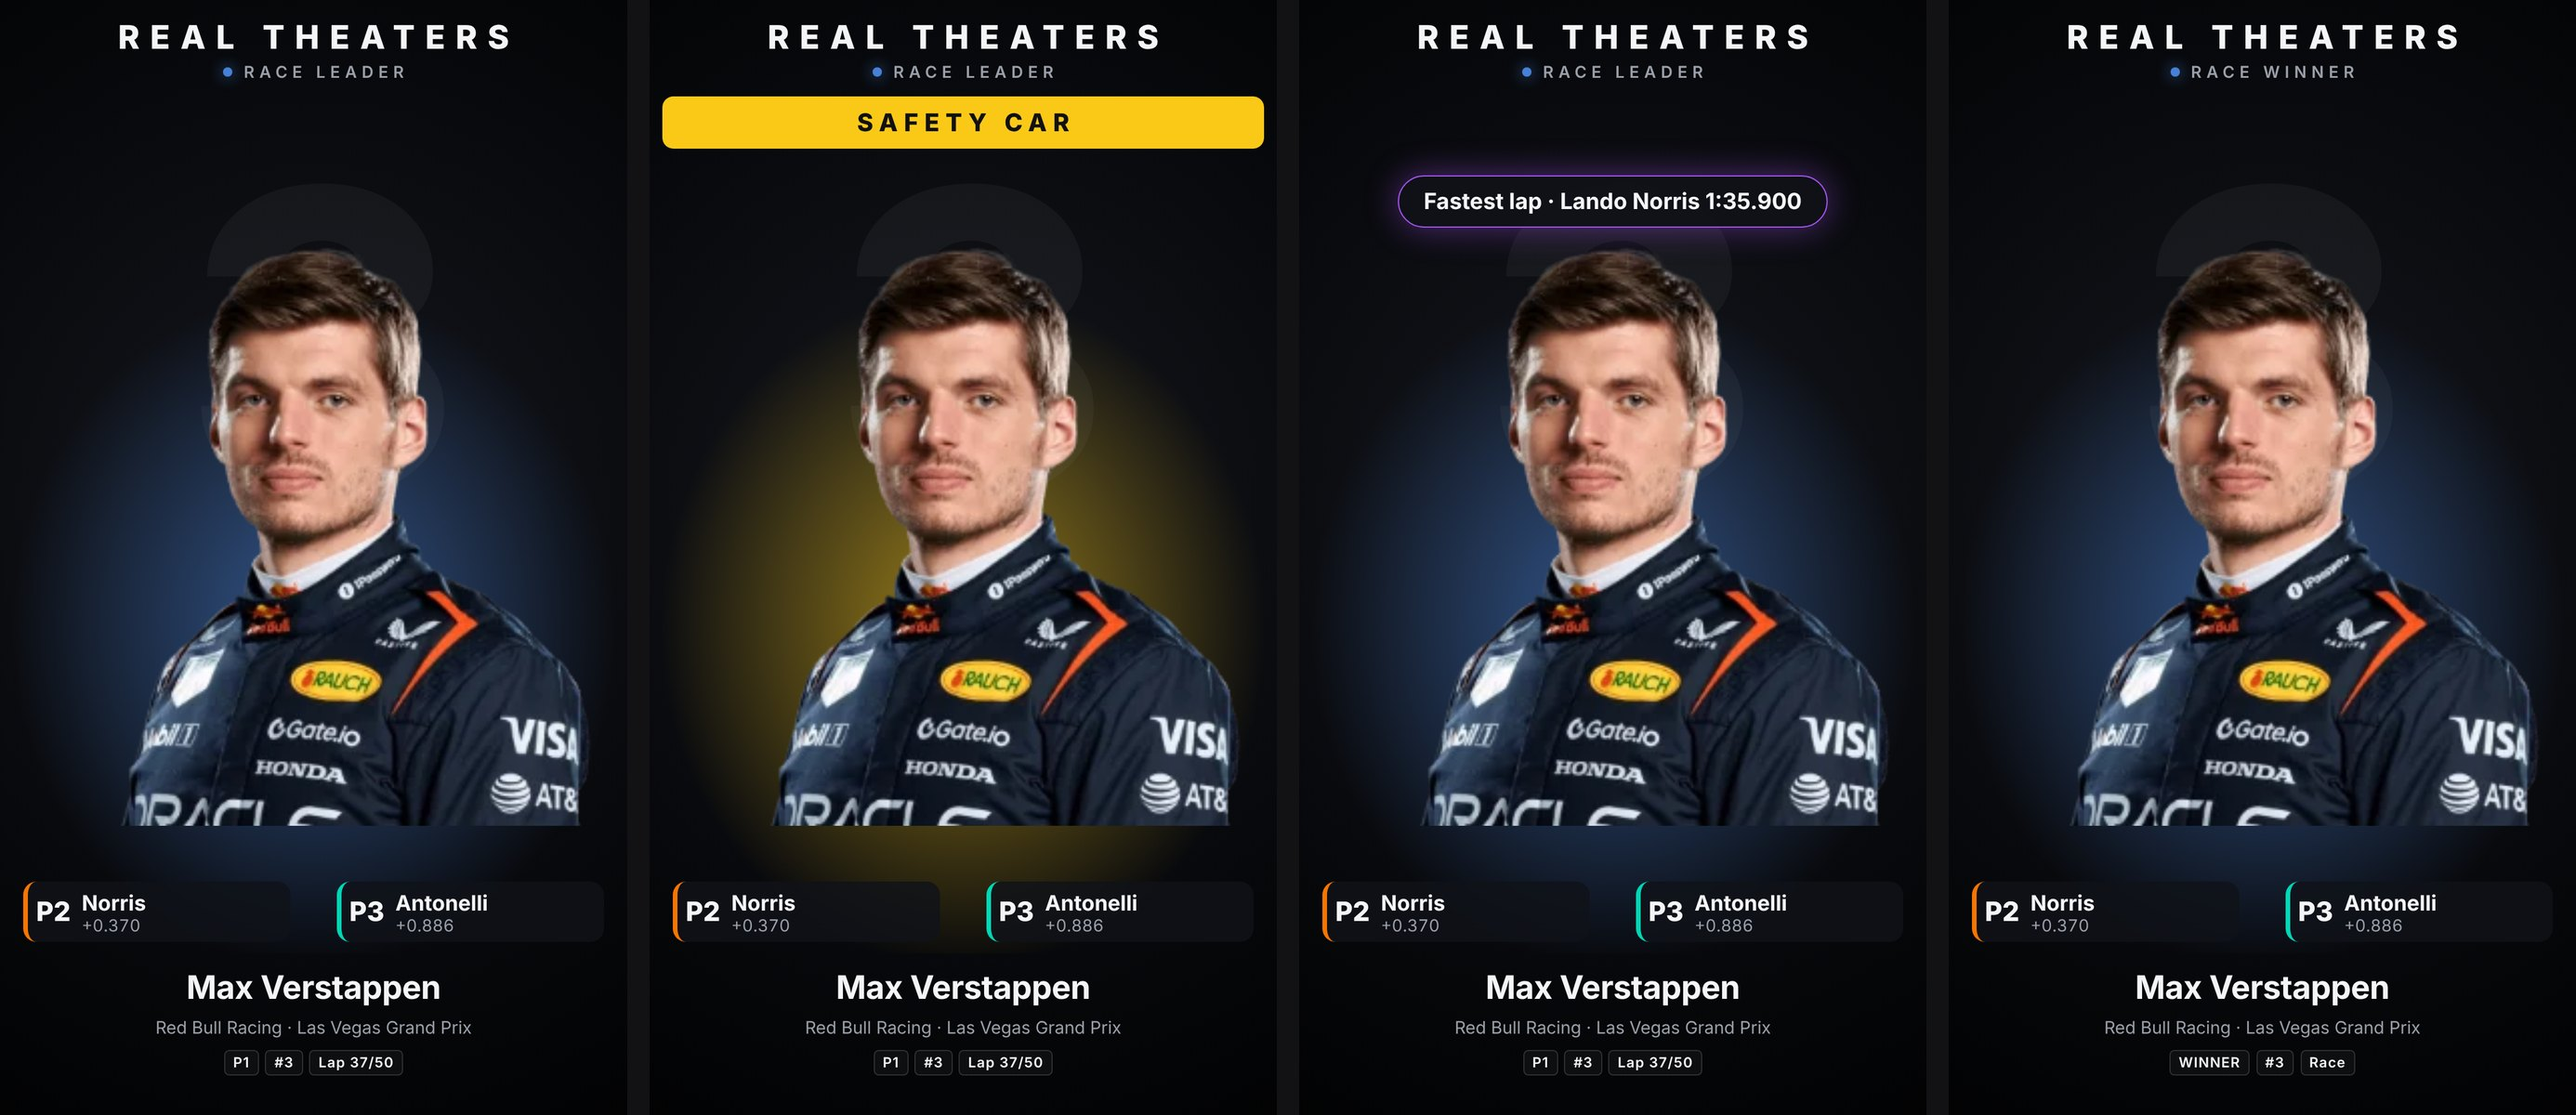
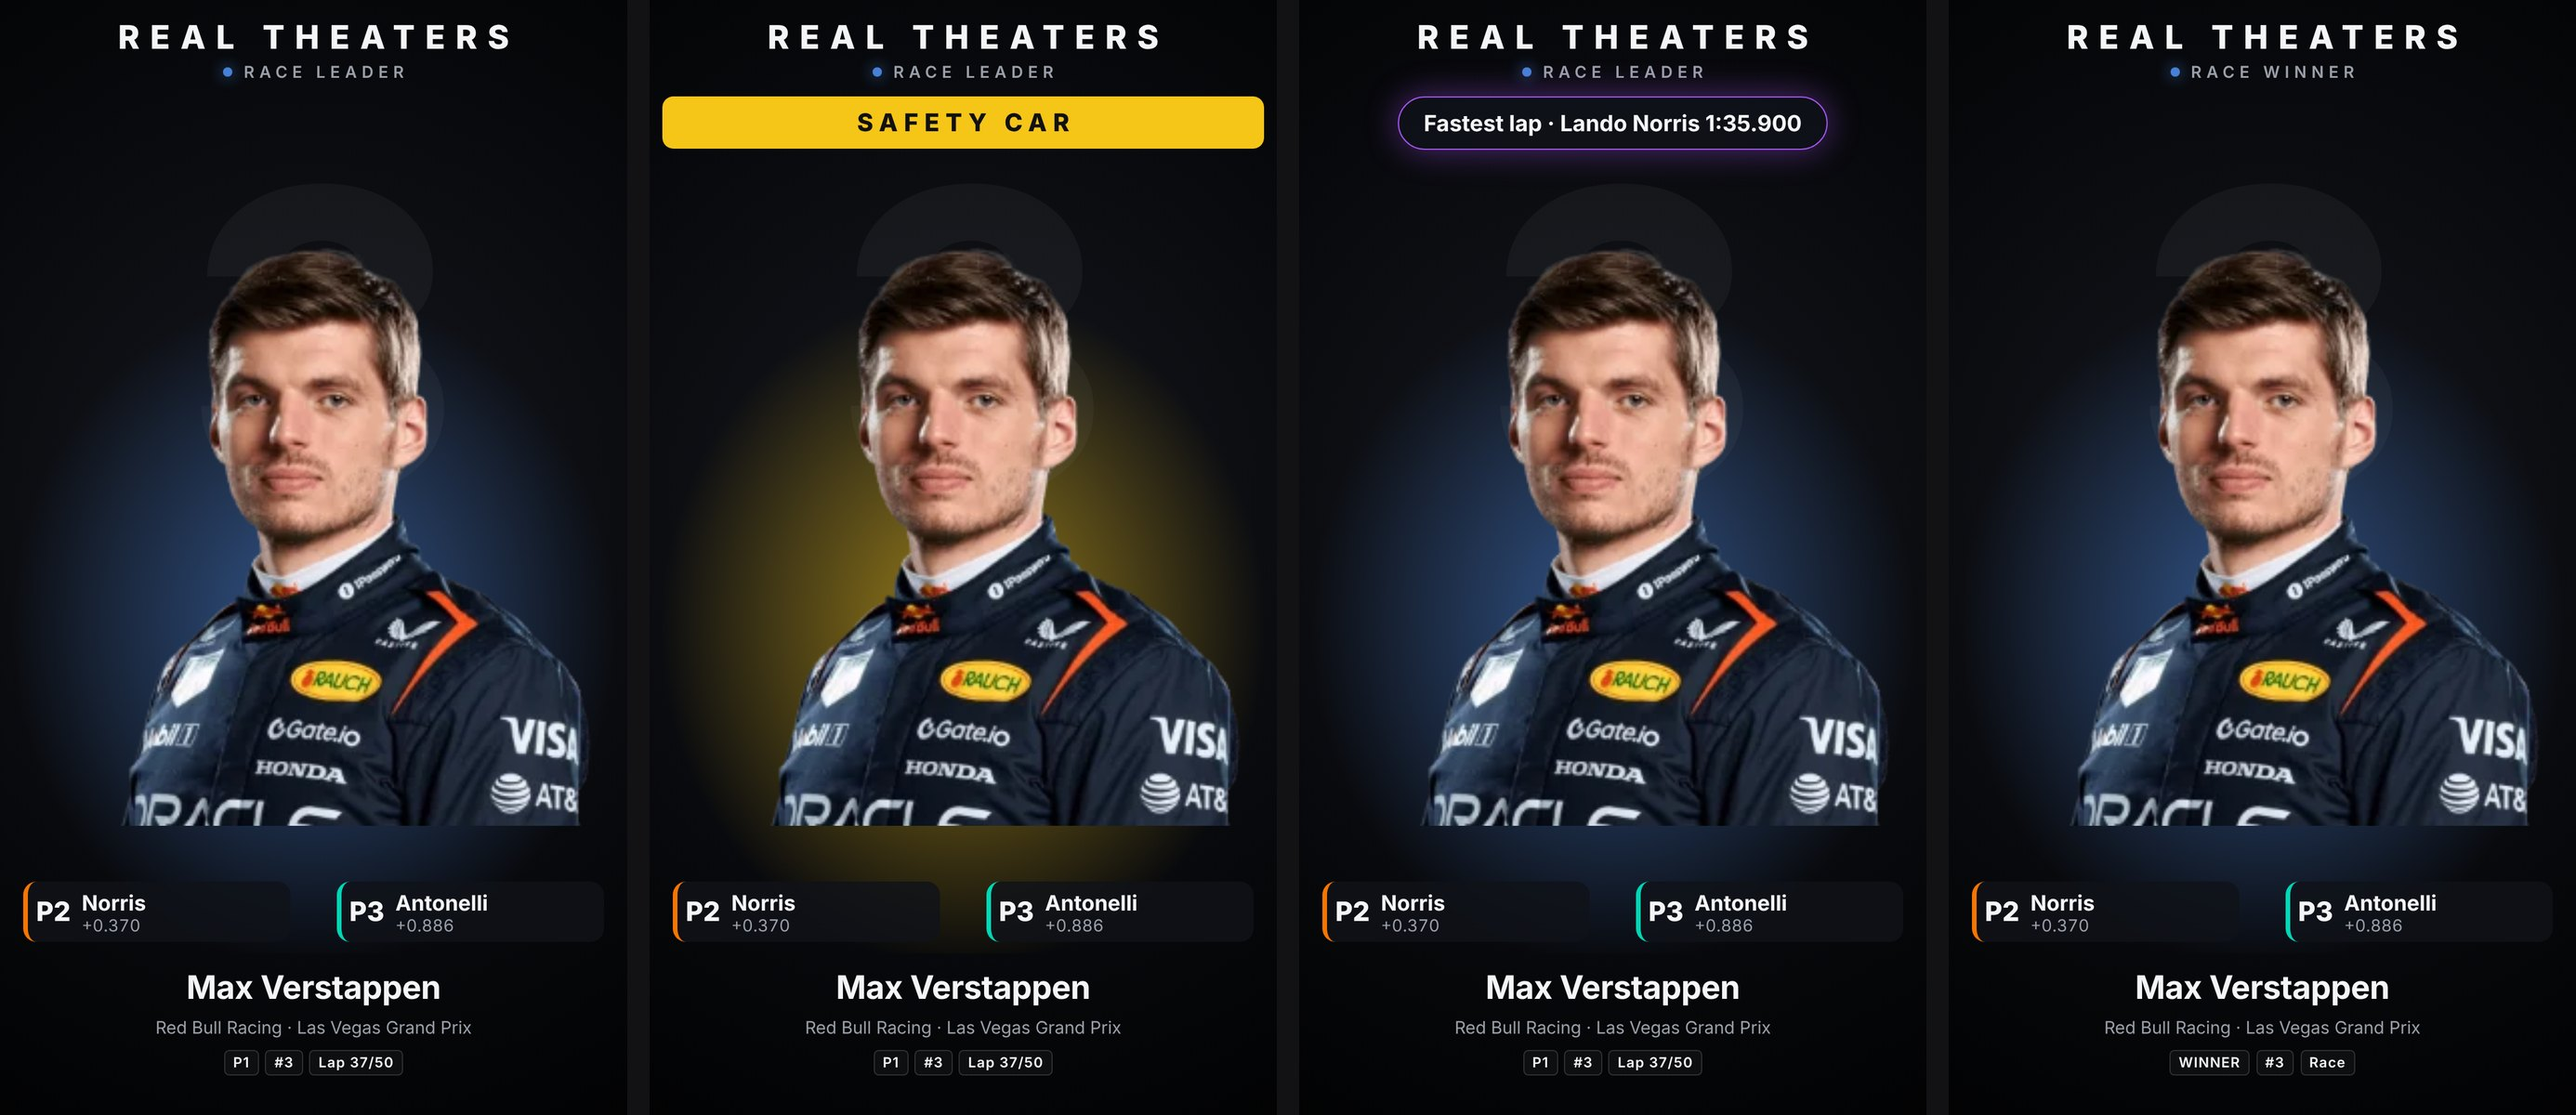
v1.16: show F1 pit and fastest-lap pop-ups at the top of the screen
The pop-up now sits where the flag banner goes, and drops just below
the banner when a flag is showing.

Claude-Session: https://claude.ai/code/session_01N4Px6a5xLNUW3k4sx31Kai

Changed region(s): [[0.5274, 0.0617, 0.7136, 0.2158]]

diff --git a/public/index.html b/public/index.html
@@ -99,9 +99,10 @@
   body.flag-sc #f1bg, body.flag-vsc #f1bg { background: radial-gradient(70% 55% at 50% 62%, #f5c518 0%, transparent 72%); }
   body.flag-red #f1bg { background: radial-gradient(70% 55% at 50% 62%, #e10600 0%, transparent 72%); }
   @keyframes flagpulse { 50% { filter: brightness(1.25); } }
-  #f1toast { top: calc(7 * var(--vh)); margin: 0 auto; width: max-content; max-width: 90%; padding: calc(1 * var(--vh)) calc(2.2 * var(--vh)); border-radius: 99px; font-weight: 700; font-size: calc(2 * var(--vh));
+  #f1toast { top: 0; margin: 0 auto; width: max-content; max-width: 90%; padding: calc(1 * var(--vh)) calc(2.2 * var(--vh)); border-radius: 99px; font-weight: 700; font-size: calc(2 * var(--vh));
     background: rgba(16,18,24,.9); border: 1px solid var(--faint); white-space: nowrap; overflow: hidden; text-overflow: ellipsis; transform: translateY(-20%); transition: opacity 400ms ease, transform 400ms ease; }
   body.f1 #f1toast.on { opacity: 1; transform: none; }
+  body.flag #f1toast { top: calc(6 * var(--vh)); }
   #f1toast.fastest { border-color: #a855f7; box-shadow: 0 0 1.5em rgba(168,85,247,.45); }
   #f1toast.pit { border-color: #f5c518; }
 
